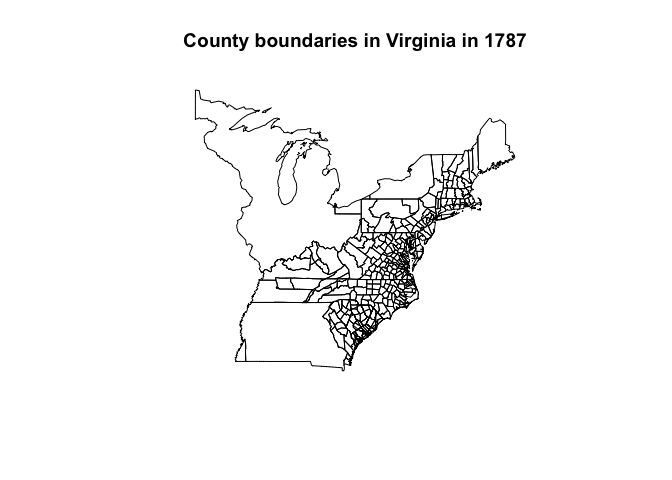
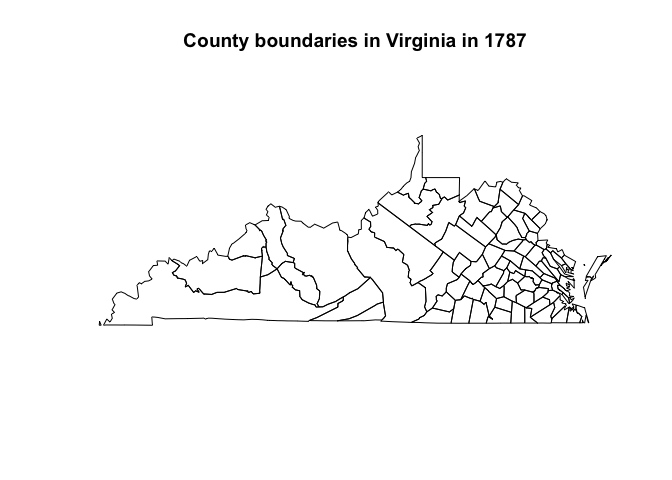
Fix incorrect example

diff --git a/README.md b/README.md
@@ -52,7 +52,7 @@ title("Contemporary U.S. state boundaries")
 
 ``` r
 
-counties_va_1787 <- us_counties("1787-09-17")
+counties_va_1787 <- us_counties("1787-09-17", states = "Virginia")
 plot(counties_va_1787)
 title("County boundaries in Virginia in 1787")
 ```
@@ -103,26 +103,30 @@ If you need U.S. Census Bureau boundary files which are not provided by this pac
 
 ### Citation and license
 
-The historical data provided in this package is available under the CC BY-NC-SA 2.5 license from John H. Long, et al., [Atlas of Historical County Boundaries](http://publications.newberry.org/ahcbp/), Dr. William M. Scholl Center for American History and Culture, The Newberry Library, Chicago (2010). Please cite that project if you use this package in your research. The contemporary data is provided by the [U.S. Census Bureau](https://www.census.gov/geo/maps-data/).
+The historical data provided in this package is available under the CC BY-NC-SA 2.5 license from John H. Long, et al., [Atlas of Historical County Boundaries](http://publications.newberry.org/ahcbp/), Dr. William M. Scholl Center for American History and Culture, The Newberry Library, Chicago (2010). Please cite that project if you use this package in your research and abide by the terms of their license if you use the historical information.
+
+The contemporary data is provided by the [U.S. Census Bureau](https://www.census.gov/geo/maps-data/).
+
+All code in this package is copyright [Lincoln Mullen](http://lincolnmullen.com) and is released under the MIT license.
 
 If you use this package in your research, I would appreciate a citation.
 
 ``` r
 citation("USAboundaries")
-#> Warning in citation("USAboundaries"): no date field in DESCRIPTION file of
-#> package 'USAboundaries'
 #> 
 #> To cite package 'USAboundaries' in publications use:
 #> 
-#>   Lincoln Mullen (). USAboundaries: Historical and Contemporary
-#>   Boundaries of the United States of America. R package version
-#>   0.2.0.9000. https://github.com/ropensci/USAboundaries
+#>   Lincoln Mullen (2015). USAboundaries: Historical and
+#>   Contemporary Boundaries of the United States of America. R
+#>   package version 0.2.0.9000.
+#>   https://github.com/ropensci/USAboundaries
 #> 
 #> A BibTeX entry for LaTeX users is
 #> 
 #>   @Manual{,
 #>     title = {USAboundaries: Historical and Contemporary Boundaries of the United States of America},
 #>     author = {Lincoln Mullen},
+#>     year = {2015},
 #>     note = {R package version 0.2.0.9000},
 #>     url = {https://github.com/ropensci/USAboundaries},
 #>   }
